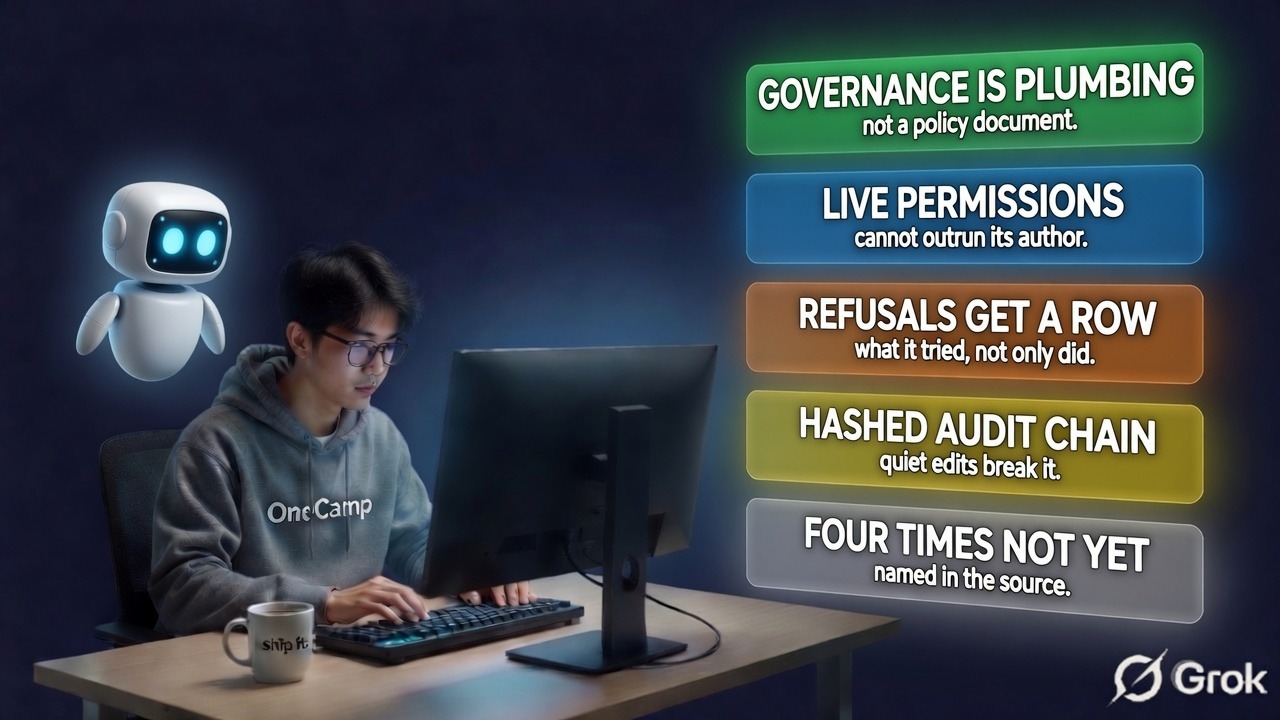
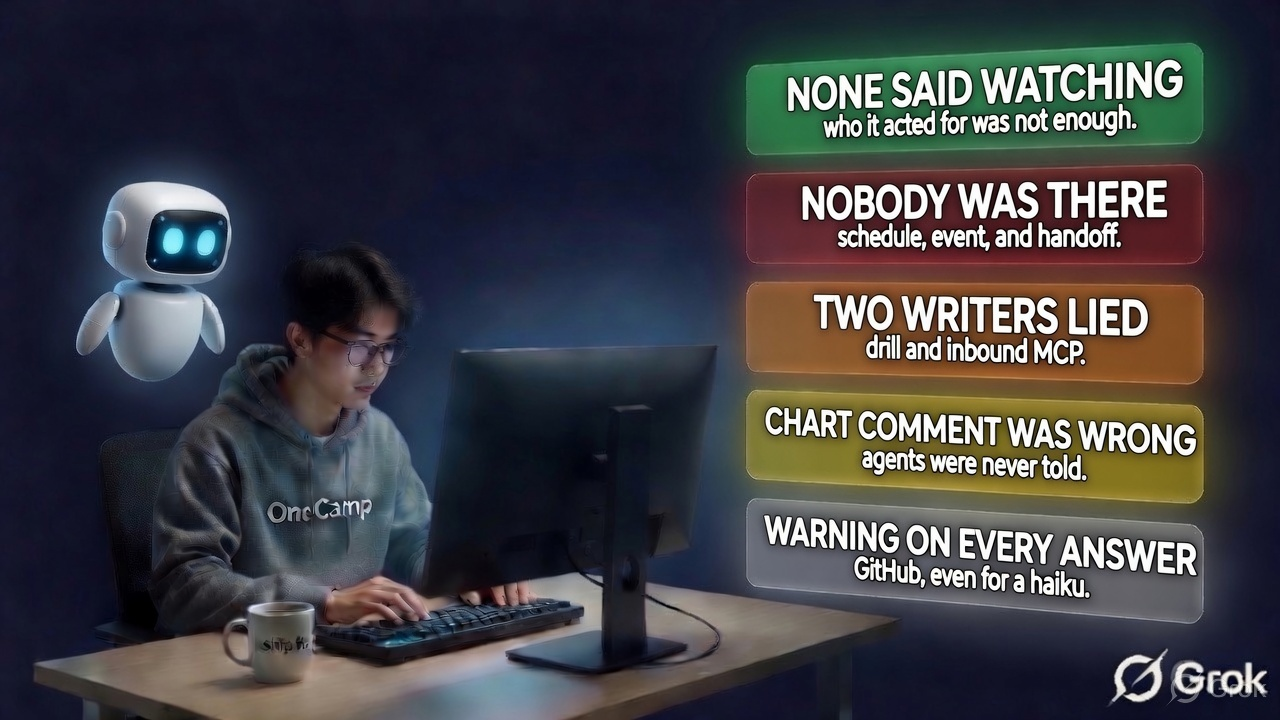
blog: dedicated heroes for the remote-agents and nobody-watching posts
Both shipped with placeholders copied from older posts. Replace them
with 1280x720 heroes in the same character/card style, cross-link the
two, point the governance post at the sequel, and stop Liquid eating
the docker inspect Go template in the walkthrough.

diff --git a/_posts/2026-09-19-I-Spent-A-Week-Comparing-My-Agents-To-Everyone-Elses-Then-I-Let-Theirs-In.md b/_posts/2026-09-19-I-Spent-A-Week-Comparing-My-Agents-To-Everyone-Elses-Then-I-Let-Theirs-In.md
@@ -151,7 +151,7 @@ class Agent(BaseHTTPRequestHandler):
 HTTPServer(("0.0.0.0", 4200), Agent).serve_forever()
 ```
 
-It has to be reachable from your OneCamp container. If you run it on the same host, that is your Docker bridge address rather than `localhost`, which you can find with `docker inspect <your-onecamp-api-container> -f '{{range .NetworkSettings.Networks}}{{.Gateway}} {{end}}'`. On mine that is `172.21.0.1`, so the endpoint is `http://172.21.0.1:4200/ag-ui`.
+It has to be reachable from your OneCamp container. If you run it on the same host, that is your Docker bridge address rather than `localhost`, which you can find with `{% raw %}docker inspect <your-onecamp-api-container> -f '{{range .NetworkSettings.Networks}}{{.Gateway}} {{end}}'{% endraw %}`. On mine that is `172.21.0.1`, so the endpoint is `http://172.21.0.1:4200/ag-ui`.
 
 If you already have a LangGraph, CrewAI, Mastra or Pydantic AI agent with an AG-UI endpoint, skip this step and use that instead. That is the entire point.
 
@@ -220,5 +220,7 @@ The list where I am honest, because a changelog with only wins is an advert.
 **One reference implementation is not the ecosystem.** I have tested against a handful of endpoints and the protocol's own event list. The first bug report from somebody running a framework I have not tried will teach me something.
 
 If you try it against your own agent and it breaks, tell me what it sent. That is the fastest way this gets better.
+
+The other post from this fortnight: [every agent row said who it acted for, none said whether anyone was watching](/post/Every-Agent-Row-Said-Who-It-Acted-For-None-Said-Whether-Anyone-Was-Watching.html).
 
 *[OneCamp](https://onemana.dev/buy) is an open-source, self-hosted workspace: one payment, unlimited users, your server. Find it at [onemana.dev](https://onemana.dev/buy).*

diff --git a/_posts/2026-09-02-AI-Governance-Is-Mostly-Boring-Plumbing.md b/_posts/2026-09-02-AI-Governance-Is-Mostly-Boring-Plumbing.md
@@ -94,4 +94,6 @@ What it does require is being willing to write down where your own answer is sti
 
 v2.7.0 and v1.5.0 are out, and everything described here is in them. The other post from this release: [every feature worked and nobody could reach it](/post/Every-Feature-Worked-And-Nobody-Could-Reach-It.html).
 
+Update: the next piece of this plumbing is [every agent row said who it acted for, none said whether anyone was watching](/post/Every-Agent-Row-Said-Who-It-Acted-For-None-Said-Whether-Anyone-Was-Watching.html).
+
 *[OneCamp](https://onemana.dev/buy) is an open-source, self-hosted workspace: one payment, unlimited users, your server. Find it at [onemana.dev](https://onemana.dev/buy).*

diff --git a/_posts/2026-09-19-Every-Agent-Row-Said-Who-It-Acted-For-None-Said-Whether-Anyone-Was-Watching.md b/_posts/2026-09-19-Every-Agent-Row-Said-Who-It-Acted-For-None-Said-Whether-Anyone-Was-Watching.md
@@ -141,4 +141,6 @@ And if you want to know whether you have this problem right now without reading 
 
 And, as ever: I never claim OneCamp makes you compliant with anything. It produces records. What those records are worth is between you and your auditor.
 
+The other post from this fortnight: [I spent a week comparing my agents to everyone else's, then I let theirs in](/post/I-Spent-A-Week-Comparing-My-Agents-To-Everyone-Elses-Then-I-Let-Theirs-In.html).
+
 *[OneCamp](https://onemana.dev/buy) is an open-source, self-hosted workspace: one payment, unlimited users, your server. Find it at [onemana.dev](https://onemana.dev/buy).*
